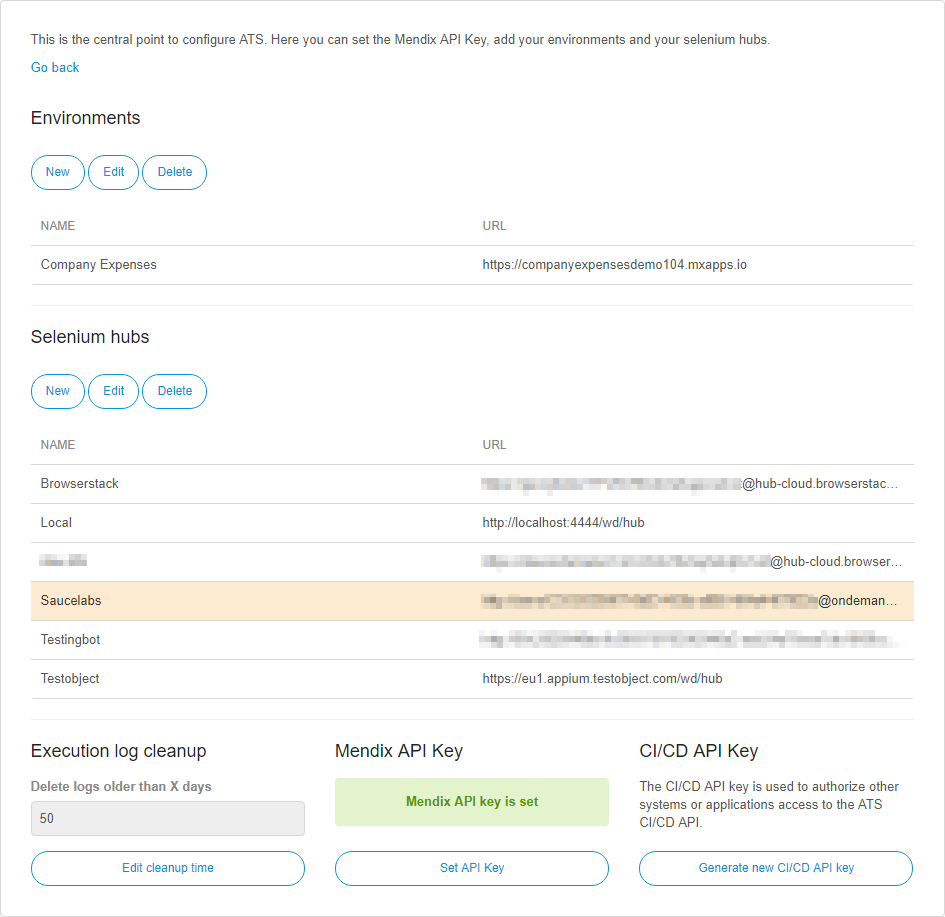
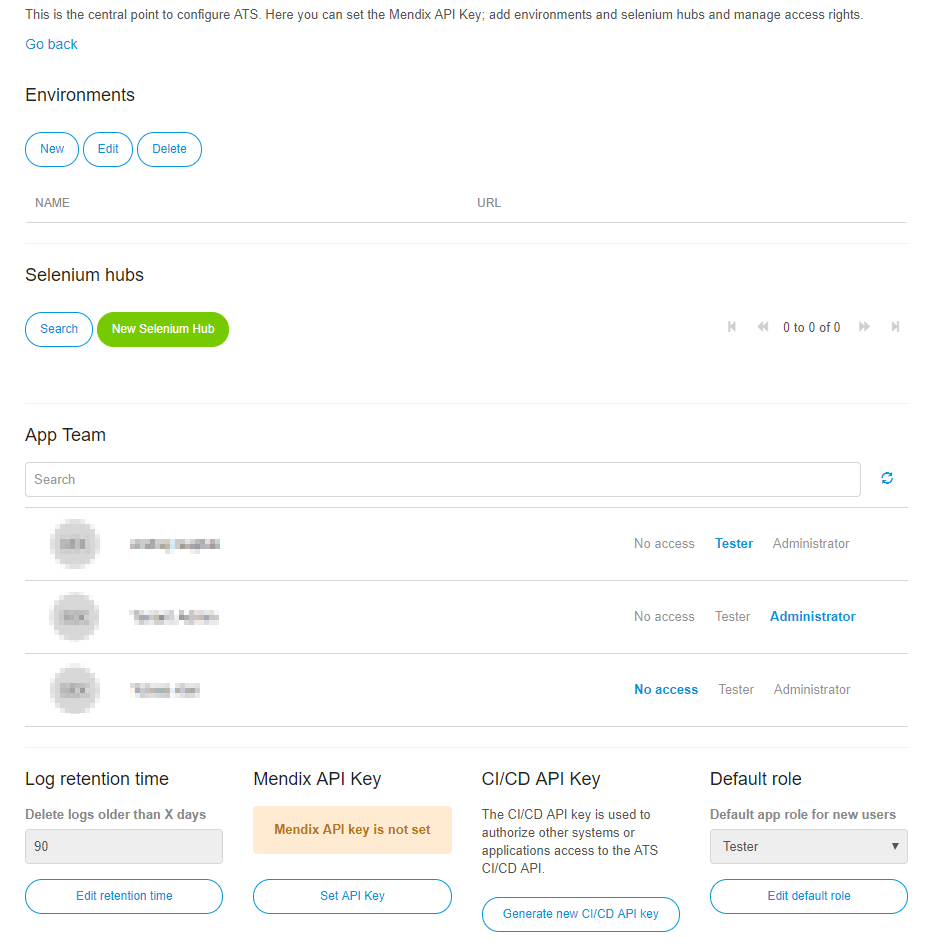
Release notes 2.9 and reference guide for On-premises

diff --git a/ats-public-documentation/general/deployment.md b/ats-public-documentation/general/deployment.md
@@ -87,16 +87,17 @@ Test Automation               | ![][green] Yes | ![][green] Yes                |
 Test Recording                | ![][green] Yes | ![][green] Yes                | ![][green] Yes                | ![][green] Yes
 OS Selection                  | ![][green] Yes | ![][green] Yes                | ![][green] Yes                | ![][red] No
 Responsive Testing            | ![][green] Yes | ![][green] Yes                | ![][green] Yes                | ![][red] No
-Multiple Browsers<sup>1</sup> | ![][green] All | ![][green] All                | ![][green] All                | ![][grey] Limited<sup>3</sup>
-Mobile Testing<sup>2</sup>    | ![][green] Yes | ![][green] Yes                | ![][green] Yes                | ![][red] No
-Mendix Platform Integration   | ![][green] All | ![][grey] Limited<sup>4</sup> | ![][grey] Limited<sup>4</sup> | ![][grey] Limited<sup>4</sup>
-Live View & Video<sup>2</sup> | ![][green] Yes | ![][green] Yes                | ![][green] Yes                | ![][red] No
+Multiple Browsers<sup>1</sup> | ![][green] All | ![][green] All                | ![][green] All                | ![][green] Yes<sup>2</sup>
+Mobile Testing   | ![][green] Yes | ![][green] Yes                | ![][green] Yes                | ![][red] No
+Mendix Platform Integration   | ![][green] All | ![][grey] Limited<sup>3</sup> | ![][grey] Limited<sup>3</sup> | ![][grey] Limited<sup>3</sup>
+Recording<sup>4</sup> | ![][green] Yes | ![][green] Yes                | ![][green] Yes                | ![][red] No
 Future Proof<sup>5</sup>      | ![][green] Yes | ![][green] Yes                | ![][green] Yes                | ![][red] No
 
-<sup>1</sup> Only if supported by ATS.<br />
-<sup>2</sup> Feature not available yet.<br />
-<sup>3</sup> Additional setup for every browser required.<br />
-<sup>4</sup> ATS will integrate with several APIs from the Mendix Cloud to improve the testing experience. Since some of these APIs are only available for apps that run in the Mendix Cloud, certain features cannot be offered for on-premises apps.<br />
+<sup>1</sup> For a list of supported browsers see 
+[Browser Compatibility](../refguide/rg-version-2/provider_platform_browser_compatiblitiy_table.md).<br />
+<sup>2</sup> Additional setup for every browser required.<br />
+<sup>3</sup> ATS will integrate with several APIs from the Mendix Cloud to improve the testing experience. Since some of these APIs are only available for apps that run in the Mendix Cloud, certain features cannot be offered for on-premises apps.<br />
+<sup>4</sup> Only available for some providers.<br />
 <sup>5</sup> Future features may depend on the functionality offered by the Mendix Cloud or the Selenium service providers. They may not be available if you run your app on-premises or host your own Selenium server.
 
 ### 4.2 Setup and Maintenance
@@ -129,7 +130,7 @@ ATS does not support the uploading of files in every situation. This table prese
 <sup>1</sup> This is only possible when you prepare your own files on that server.<br />
 <sup>2</sup> This depends on where the agent is installed.
 
-For more information, see [How to Upload a File in Your App Using ATS](../howtos/ht-version-2/upload-file-using-ats-2].
+For more information, see [How to Upload a File in Your App Using ATS](../howtos/ht-version-2/upload-file-using-ats-2.md).
 
 ## 5 Setup Instructions
 

diff --git a/ats-public-documentation/refguide/rg-version-2/app.md b/ats-public-documentation/refguide/rg-version-2/app.md
@@ -111,11 +111,26 @@ ATS automatically retrieves the parallel test session limit from the Selenium hu
 Starting with ATS verson 2.0, ATS capabilites override custom capabilities.
 {{% /alert %}}
 
-### 3.3 Administration rights control from ATS
+### 3.3 Access rights control from ATS
 
-Under **Administrators** you can specify which app members have administrative rights for the app. By default app members with the "SCRUM Master" project role in Sprintr will have administrative rights. Please keep in mind that users still need to be a member of a project in Sprintr for them to be eligible to be app administrators for the corresponding app in ATS.
+Under **App Team** you can specify which app members have what type of access rights for the app.
 
-In order to make sure that administration rights which have been granted to users are not overwritten, we do not automatically revoke administration rights when the project role for a user in Sprintr changes from administrator to non-administrator. Instead, revoking administration rights can be done manually from the "Settings" page. Finally, note that a user who has an administrative project role in Sprintr will always have administrative rights in ATS.
+![Manage app permissions](attachments/project/app_permissions.png)
+
+By default app members with the "SCRUM Master" project role in Sprintr will have administrative rights. All other members of the app will get the _Default role_ configured for that app. Please keep in mind that users still need to be a member of a project in Sprintr for them to be eligible to be app administrators for the corresponding app in ATS.
+
+App member that the have _No access_ role, will not see the app in their _My apps_ page and will not be able to open or edit or run any test cases for this app.
+
+{{% alert type="info" %}}
+For On-Premises instances of ATS all accounts which are created manually by the tenant administrator will be members of each project.
+{{% /alert %}}
+
+In order to make sure that administration rights which have been granted to users are not overwritten, we do not automatically revoke administration rights when the project role for a user in Sprintr changes from administrator to non-administrator. Instead, revoking administration rights can be done manually from the _App Settings_ page. Finally, note that a user who has an administrative project role in Sprintr will always have administrative rights in ATS.
+
+
+{{% alert type="info" %}}
+If the project lacks a Mendix app ID the app roles will not be synced with Sprintr.
+{{% /alert %}}
 
 ### 3.4 Execution Log Cleanup
 
@@ -134,3 +149,7 @@ For information on where to find the API keys of your Mendix app, see [Authentic
 The CI/CD API key is used to allow other systems or applications access to the ATS CI/CD API. Generating a new API key revokes access for any systems using the old API key. These systems are not able to access the ATS CI/CD API until they are updated with the new API key. Make sure to save the displayed API key in a secure place, as you cannot view it again in ATS.
 
 For more information about the CI/CD API, see [CI/CD API](cicd-api).
+
+### 3.7 Default Role
+
+The default role for an app determine which role will be granted to new members of the app. 

diff --git a/ats-public-documentation/refguide/rg-version-2/administration.md b/ats-public-documentation/refguide/rg-version-2/administration.md
@@ -1,0 +1,71 @@
+---
+title: "Administration"
+parent: "rg-version-2"
+---
+
+As a tenant administrator in the ATS, you have access to additional functionality:
+
+*   Manage Apps system wide
+*   Create new user accounts
+
+When you are logged in as a tenant administrator you can access the tenant administration page from your profile menu:
+
+![Tenant administration page](attachments/administration/tenant_admin_accounts.png)
+
+Each ATS instance comes with a single tenant administration account with the following credentials: 
+
+* Username: "tenantadmin" 
+* Password: "1"
+
+We advise you to change the password for the tenant administrator account as soon as you log in for the first time.
+
+## Manage Accounts
+
+On the _Accounts_ tab you can manage the accounts for this ATS instance. 
+
+## Creating Accounts
+
+![Create new account dialog](attachments/administration/create_account.png)
+
+Field | Description
+--- | ---
+Full Name | The full name of the user as displayed in ATS.
+Name | The name the user logs in with, which must be unique.
+Password | The initial password of the user (which should be changed by the user when logging in).
+Confirm Password | Must match the _Password_.
+
+
+{{% alert type="info" %}}
+
+When a new account is created his role for all _Apps_ will be set according to the specified _Default app role_ for each app.
+
+{{% /alert %}}
+
+## Editing Accounts
+
+![Edit account dialog](attachments/administration/edit_account.png)
+
+As a tenant administrator can change the full name of an account and change the password. It is not possible to change the username of an account.
+
+When editing accounts you can set accounts to inactive or block them, which will both deactivate the account. 
+
+{{% alert type="info" %}}
+
+When a user attempts to log in with an incorrect password for a certain number of times in a certain amount of time, according to mendix regulations, that corresponding account will be marked as blocked by the system. As a tenant administrator you can unblock accounts by toggling the _Blocked_ checkbox.
+
+{{% /alert %}}
+
+## Manage Apps
+
+On the _Apps_ tab you can see all the apps that exist on this ATS instance. Here you can create new Apps and edit existing ones. When you click on _New_/_Edit_ the following page will open:
+
+![App Create/Edit](attachments/administration/app_new_edit.png)
+
+You can enter/edit the name and the Mendix app ID. The name is used in the _My apps_ page. The Mendix app ID is used to retrieve information from Mendix Sprintr, e.g. user stories, which are needed for certain ATS features. You can leave the Mendix app ID empty if you do not plan to use these features.
+
+{{% alert type="info" %}}
+
+When creating a new app, you will be assigned as an administrator for this app. All other users will have no access to the app. Go to the newly created app's _App settings_ to manage access to it.
+
+{{% /alert %}}
+

diff --git a/ats-public-documentation/releasenotes/ats/2.9.md b/ats-public-documentation/releasenotes/ats/2.9.md
@@ -1,0 +1,28 @@
+---
+title: "2.9"
+parent: "2"
+---
+
+## 2.9.0
+
+**Release date: July 10th, 2018**
+
+### No access app role
+
+It is now possible specify that certain members of a project in Sprintr do not get any access to the project in ATS. This can be configured by app administrators from the _App settings_ page. Members of an app that have the _No access_ role will not see this app in their _My apps_ page and will not be able to view or edit or run test cases. Note that _SCRUM Masters_ in Spintr will always keep the administrator role in ATS.
+
+### Default app role
+
+We have implemented a functionality to set a default role per app. This role will be applied to new members of the app. The default role can be changed by app administrators under _App settings_. Please note that _SCRUM masters_ in Sprintr will get an administrator role in ATS even if the default role is set to _No access_ or _Tester_.
+
+### On-Premises
+
+We are reintroducing On-Premises as a deployment option for ATS. To this end we introduced a new user role _Tenant administrator_ which will only be used in On-Premises instances of ATS. The tenant administrator will be able to create and edit accounts and apps. Check the [ATS reference guide for more details on tenant administration](./../../ats/refguide/rg-version-2/administration.md).
+
+### Fixes
+
+* Due to a bug it was not possible to export the documentation for test cases/suites which had a description longer than 200 characters. This is now fixed.
+
+### Known Limitations
+
+* Regarding _Nanoflows_, we have not explicitly tested their impact on ATS, but so far we have not received issue reports related to them.

diff --git a/ats-public-documentation/general/introduction.md b/ats-public-documentation/general/introduction.md
@@ -5,7 +5,7 @@ category: "General"
 
 ## 1 ATS Start Page
 
-When you log in to the Application Test Suite (ATS) you see the **My apps** page. This page displays all the Mendix apps you are a member of and that have an ATS license. Every member of the team in your app has access to ATS.
+When you [log in to Application Test Suite (ATS)](https://ats.mendix.com), you see the **My apps** page. This page displays all the Mendix apps you are a member of and that have an ATS license. Every member of the team in your app has access to ATS.
 
 ![The My apps page](attachments/introduction/my-apps.png)
 
@@ -22,6 +22,7 @@ If you already have some active test cases in your **ATS app**, the dashboard wi
 ![ATS app dashboard](attachments/introduction/dashboard.png)
 
 The dashboard can be divided into four parts:
+
 * Current state chart
 * 7-Day history
 * Test case treeview
@@ -64,7 +65,7 @@ Using the menu, you can navigate to different pages inside ATS:
 | **Test Cases**              | This page contains the **Repository**, the **Test Data**, and the **Stories**. Here you can create new test cases, test suites, and test data. You can also connect your user stories to your test cases.|
 | **Test Runs**               | This page contains the **Jobs**, **Schedules**, and **CI/CD Templates**. Here you can see the results of your test cases, create new schedules, and create a CI/CD template for your test case/suite. |
 
-## 4 Different User Roles
+## 4 Different User Roles{#roles}
 
 ATS has the following different user role settings.
 

diff --git a/ats-public-documentation/general/compatibility.md b/ats-public-documentation/general/compatibility.md
@@ -48,7 +48,8 @@ Internet Explorer gets the same development attention as other browsers. However
 
 #### Known Limitations
 
-+ IE sometimes generates typos when keys are sent to the browser. This can result in wrong values being set to input fields.
+* IE can produce typos when keys are sent to the browser, which can result in wrong values being set to input fields
+* Running tests on Windows XP with Internet Explorer is not possible
 
 ### Other Browsers
 

diff --git a/ats-public-documentation/refguide/rg-version-2/provider_platform_browser_compatiblitiy_table.md b/ats-public-documentation/refguide/rg-version-2/provider_platform_browser_compatiblitiy_table.md
@@ -5,7 +5,7 @@ parent: "test-run"
 
 ## 1 Introduction
 
-The following tables document provider, operating system, and browser compatability. 
+The following tables document provider, operating system, and browser compatibility 
 
 ## 2 Browserstack
 
